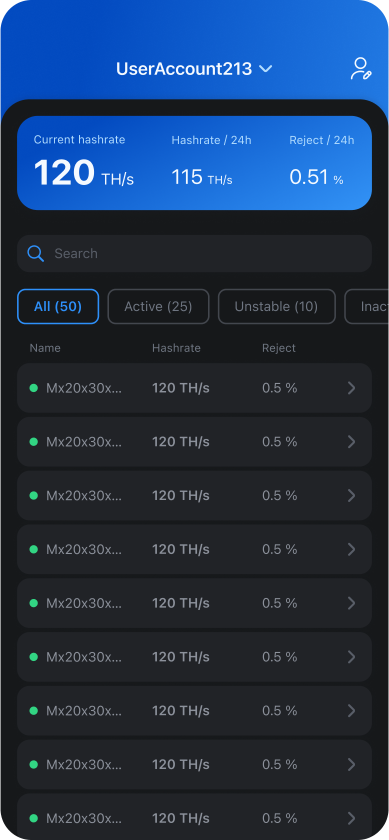
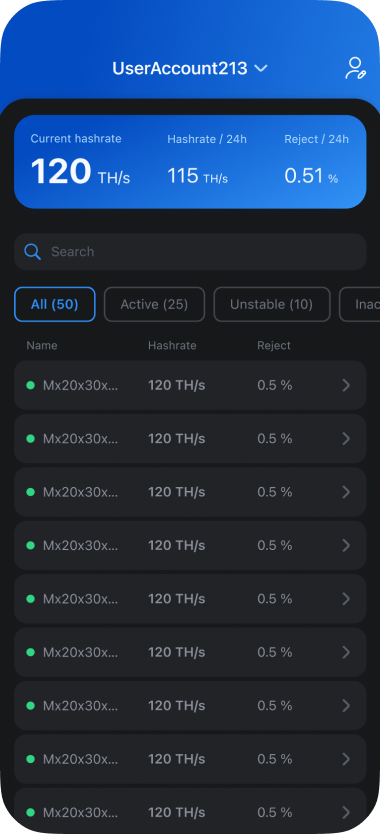
refactor: mockups on home #111

diff --git a/resources/js/modules/hosting/Components/MobileAppCard.vue b/resources/js/modules/hosting/Components/MobileAppCard.vue
@@ -33,7 +33,7 @@
                         <!--                        v-show="$i18n.locale === 'ru'"-->
                         <!--                    />-->
                         <img
-                            src="../../../../assets/img/iphone-14-screen1-en.png"
+                            src="@img/iphone-14-screen1-en.png"
                             class="img-content"
                         />
                     </swiper-slide>
@@ -44,7 +44,7 @@
                         <!--                        v-show="$i18n.locale === 'ru'"-->
                         <!--                    />-->
                         <img
-                            src="../../../../assets/img/iphone-14-screen2-en.png"
+                            src="@img/iphone-14-screen2-en.png"
                             class="img-content"
                         />
                     </swiper-slide>
@@ -55,7 +55,7 @@
                         <!--                        v-show="$i18n.locale === 'ru'"-->
                         <!--                    />-->
                         <img
-                            src="../../../../assets/img/iphone-14-screen3-en.png"
+                            src="@img/iphone-14-screen3-en.png"
                             class="img-content"
                         />
                     </swiper-slide>
@@ -66,7 +66,7 @@
                         <!--                        v-show="$i18n.locale === 'ru'"-->
                         <!--                    />-->
                         <img
-                            src="../../../../assets/img/iphone-14-screen4-en.png"
+                            src="@img/iphone-14-screen4-en.png"
                             class="img-content"
                         />
                     </swiper-slide>
@@ -77,7 +77,7 @@
                         <!--                        v-show="$i18n.locale === 'ru'"-->
                         <!--                    />-->
                         <img
-                            src="../../../../assets/img/iphone-14-screen5-en.png"
+                            src="@img/iphone-14-screen5-en.png"
                             class="img-content"
                         />
                     </swiper-slide>

diff --git a/resources/js/modules/home/Components/Views/AppMobileView.vue b/resources/js/modules/home/Components/Views/AppMobileView.vue
@@ -60,12 +60,12 @@
                     <div class="mobile-view__content">
                         <img
                             class="iphone"
-                            src="../../../../../assets/img/iPhone-14.png"
+                            src="@img/iPhone-14.png"
                             alt=""
                         />
                         <img
                             class="status-bar"
-                            src="../../../hosting/assets/img/status-bar.png"
+                            src="@img/status-bar.png"
                             alt=""
                         />
                         <Swiper
@@ -289,8 +289,7 @@ export default {
         max-width: 429px;
         height: 875px;
         position: absolute;
-        padding: 15px;
-        max-height: 875px;
+        padding: 18px 24px 23px;
         left: 50%;
         top: 50%;
         transform: translate(-50%, -50%);
@@ -372,24 +371,13 @@ export default {
         height: 100%;
         max-width: 100%;
         margin: 0 auto;
-        border-radius: 70px;
         overflow: hidden;
         z-index: 1;
         justify-content: center;
 
-        @media (max-width: 768px) {
-            border-radius: 25px;
-        }
-
         img {
             width: 100%;
-            height: auto;
-            object-fit: cover;
-            border-radius: 30px;
-
-            @media (max-width: 768px) {
-                border-radius: 20px;
-            }
+            height: 100%;
         }
 
         svg {
@@ -480,10 +468,11 @@ export default {
 
 .status-bar {
     position: absolute;
-    width: 397px;
+    width: 380px;
     height: 45px;
-    top: 15px;
-    left: 15px;
+    top: 18px;
+    left: 50%;
+    transform: translateX(-50%);
     z-index: 2;
 }
 
